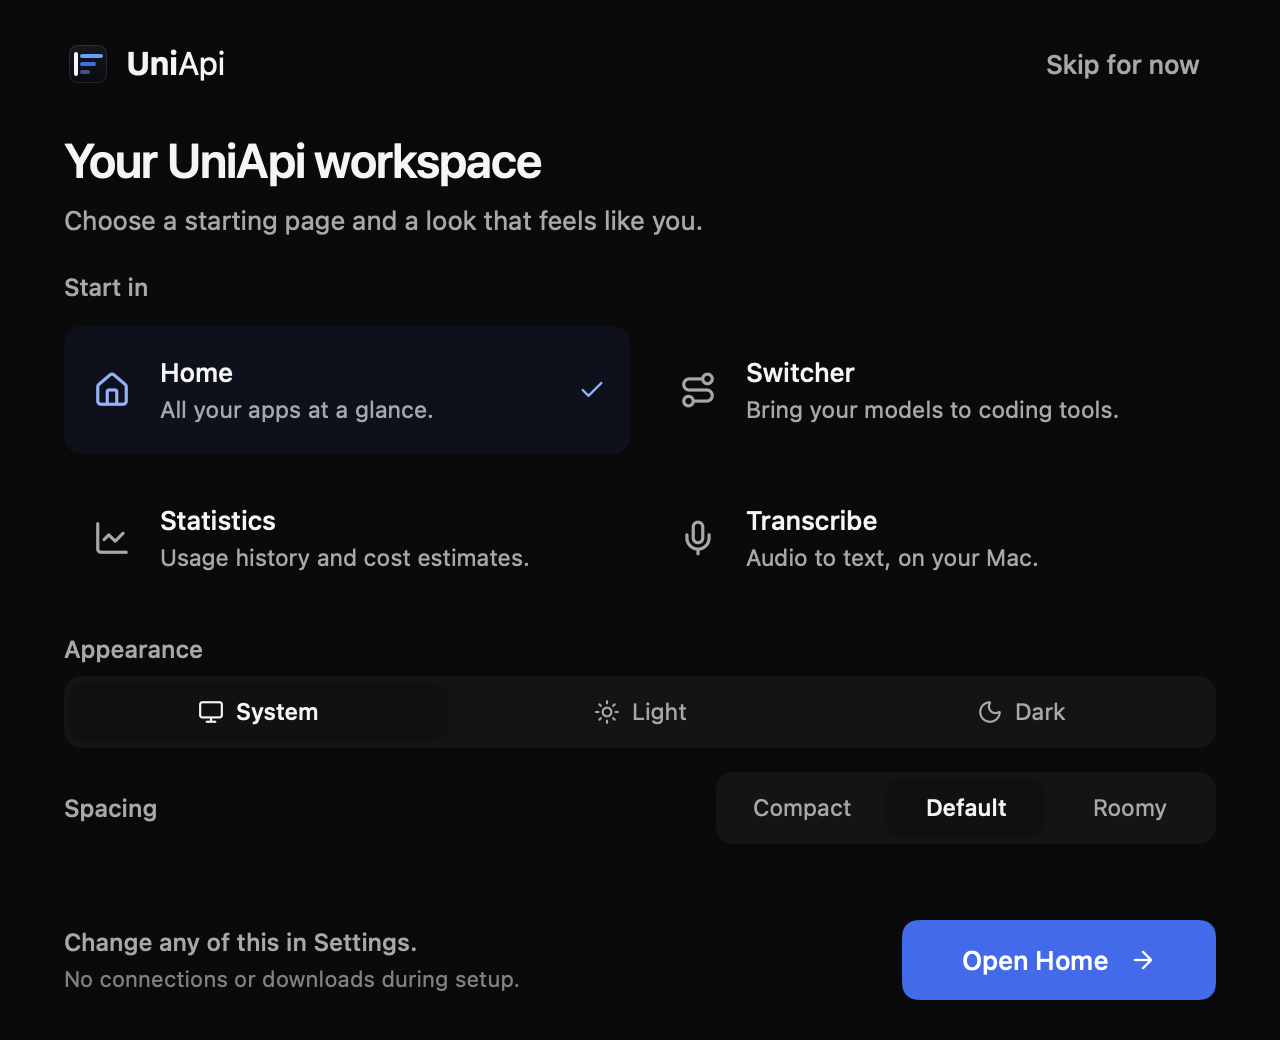
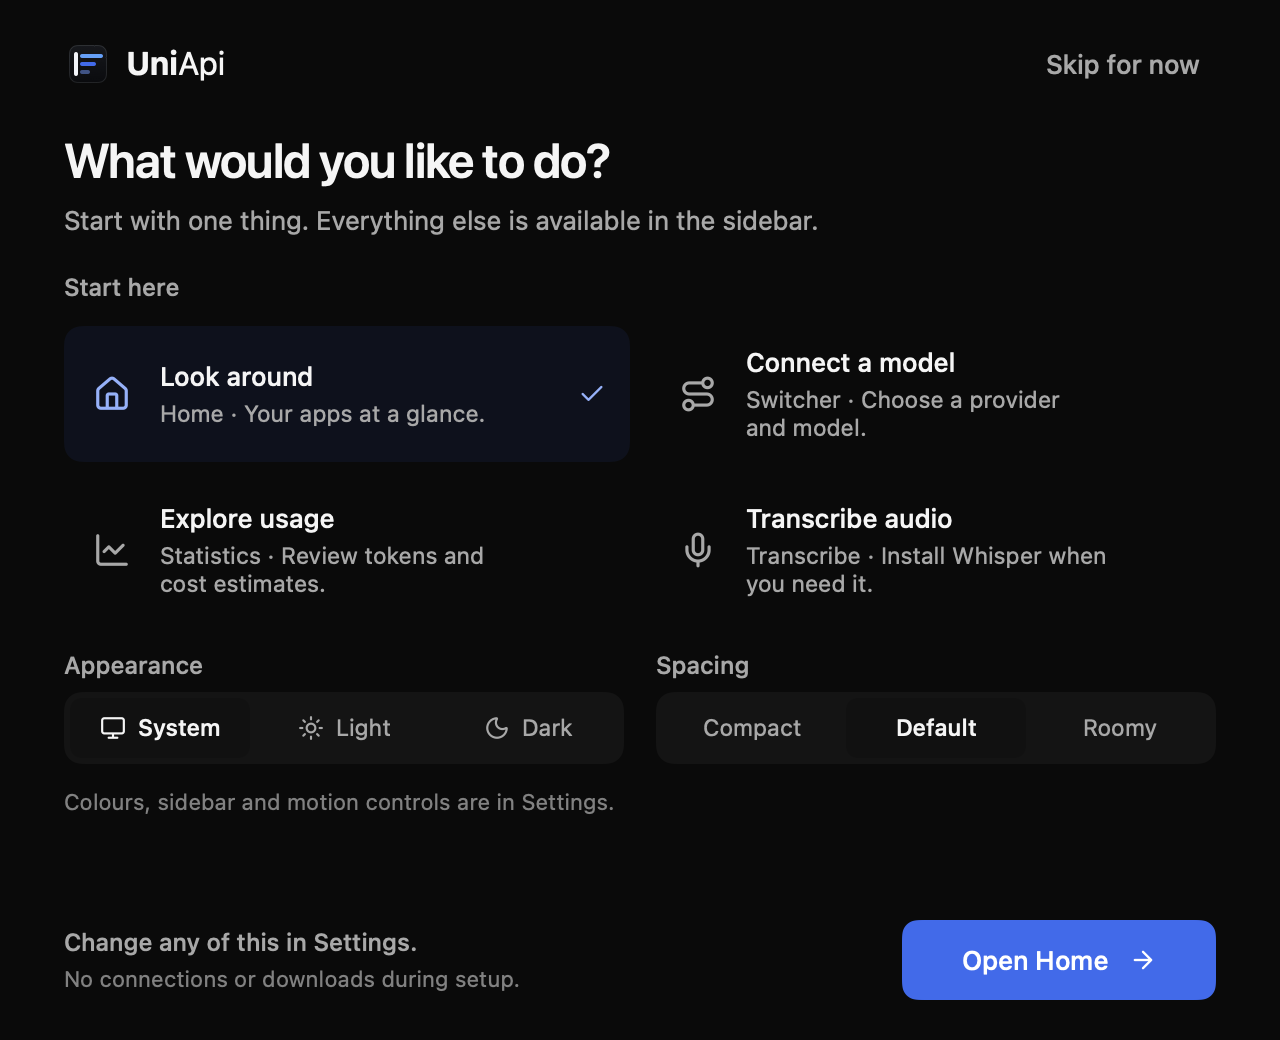
Make onboarding task-first and align customization (#26)
Explain the action before its destination, simplify the inert preview and keep Appearance and Spacing aligned in compact windows. Density changes no longer move task targets. Preserve routing, completion and preference semantics, and refresh exact-source screenshots with bounded validation notes.

diff --git a/native/swift/Sources/UniApi/NativeOnboardingView.swift b/native/swift/Sources/UniApi/NativeOnboardingView.swift
@@ -26,11 +26,11 @@ struct NativeOnboardingView: View {
                 ScrollView {
                     VStack(alignment: .leading, spacing: compact ? 18 : 28) {
                         VStack(alignment: .leading, spacing: 8) {
-                            Text("Your UniApi workspace")
+                            Text("What would you like to do?")
                                 .font(Theme.ui(compact ? 24 : 26, weight: .semibold)).tracking(-0.6)
                                 .accessibilityAddTraits(.isHeader)
                                 .accessibilityFocused($focusedHeading)
-                            Text("Choose a starting page and a look that feels like you.")
+                            Text("Start with one thing. Everything else is available in the sidebar.")
                                 .font(Theme.ui(13)).foregroundStyle(Theme.dim)
                                 .fixedSize(horizontal: false, vertical: true)
                         }
@@ -81,7 +81,7 @@ struct NativeOnboardingView: View {
 
     private func destinations(grid: Bool) -> some View {
         VStack(alignment: .leading, spacing: 12) {
-            Text("Start in").font(Theme.ui(12, weight: .medium)).foregroundStyle(Theme.dim)
+            Text("Start here").font(Theme.ui(12, weight: .medium)).foregroundStyle(Theme.dim)
             if grid {
                 LazyVGrid(columns: [GridItem(.flexible(), spacing: 10), GridItem(.flexible(), spacing: 10)], spacing: 10) {
                     ForEach(OnboardingDestination.allCases) { destinationChoice($0, compact: true) }
@@ -101,19 +101,20 @@ struct NativeOnboardingView: View {
                 NativeIcon(value.icon, size: 19).foregroundStyle(selected ? Theme.link : Theme.dim)
                     .frame(width: 24, height: 24).accessibilityHidden(true)
                 VStack(alignment: .leading, spacing: 4) {
-                    Text(value.title).font(Theme.ui(13, weight: .medium))
-                    Text(value.detail).font(Theme.ui(11.5)).foregroundStyle(Theme.dim)
+                    Text(value.actionTitle).font(Theme.ui(13, weight: .medium))
+                    Text(value.title + " · " + value.detail).font(Theme.ui(11.5)).foregroundStyle(Theme.dim)
                         .fixedSize(horizontal: false, vertical: true)
                 }
                 .frame(maxWidth: .infinity, alignment: .leading)
                 NativeIcon("check", size: 14).foregroundStyle(Theme.link)
                     .opacity(selected ? 1 : 0).accessibilityHidden(true)
             }
-            .padding(.horizontal, 12).padding(.vertical, density == "compact" ? 8 : density == "spacious" ? 14 : compact ? 10 : 12)
-            .frame(maxWidth: .infinity, minHeight: density == "compact" ? 58 : density == "spacious" ? 76 : 64, alignment: .leading)
+            .padding(.horizontal, 12).padding(.vertical, compact ? 10 : 12)
+            .frame(maxWidth: .infinity, minHeight: compact ? 68 : 72, alignment: .leading)
         }
         .buttonStyle(OnboardingChoiceStyle(selected: selected))
-        .accessibilityLabel(value.title + ". " + value.detail)
+        .accessibilityLabel(value.actionTitle + ". Select " + value.title + " as starting page. " + value.detail)
+        .accessibilityHint("Use Open " + value.title + " to continue.")
         .accessibilityAddTraits(selected ? [.isSelected] : [])
     }
 
@@ -121,26 +122,44 @@ struct NativeOnboardingView: View {
         VStack(alignment: .leading, spacing: 12) {
             if showPreview {
                 VStack(alignment: .leading, spacing: 12) {
-                    Text("Layout preview").font(Theme.ui(12, weight: .medium)).foregroundStyle(Theme.dim)
+                    Text("Appearance preview").font(Theme.ui(12, weight: .medium)).foregroundStyle(Theme.dim)
                     OnboardingWorkspacePreview(destination: destination)
-                        .frame(height: 240)
+                        .frame(height: 180)
                         .accessibilityHidden(true).allowsHitTesting(false)
                 }
             }
-            VStack(alignment: .leading, spacing: 6) {
-                Text("Appearance").font(Theme.ui(12, weight: .medium)).foregroundStyle(Theme.dim)
-                choiceStrip(options: [("auto", "System", "monitor"), ("light", "Light", "sun"), ("dark", "Dark", "moon")], selection: appearance) { appearance = $0 }
-                    .accessibilityLabel("Appearance")
+            if showPreview {
+                appearanceControl
+                spacingControl
+            } else {
+                HStack(alignment: .top, spacing: 16) {
+                    appearanceControl
+                    spacingControl
+                }
             }
-            HStack(spacing: 12) {
-                Text("Spacing").font(Theme.ui(12, weight: .medium)).foregroundStyle(Theme.dim)
-                Spacer(minLength: 0)
-                choiceStrip(options: [("compact", "Compact", nil), ("standard", "Default", nil), ("spacious", "Roomy", nil)], selection: density) { density = $0 }
-                    .frame(maxWidth: 250)
-                    .accessibilityLabel("Page spacing")
-            }
+            Text("Colours, sidebar and motion controls are in Settings.")
+                .font(Theme.ui(11)).foregroundStyle(Theme.muted)
+                .fixedSize(horizontal: false, vertical: true)
         }
         .frame(maxWidth: .infinity, alignment: .leading)
+    }
+
+    private var appearanceControl: some View {
+        VStack(alignment: .leading, spacing: 6) {
+            Text("Appearance").font(Theme.ui(12, weight: .medium)).foregroundStyle(Theme.dim)
+            choiceStrip(options: [("auto", "System", "monitor"), ("light", "Light", "sun"), ("dark", "Dark", "moon")], selection: appearance) { appearance = $0 }
+                .accessibilityLabel("Appearance")
+        }
+        .frame(maxWidth: .infinity)
+    }
+
+    private var spacingControl: some View {
+        VStack(alignment: .leading, spacing: 6) {
+            Text("Spacing").font(Theme.ui(12, weight: .medium)).foregroundStyle(Theme.dim)
+            choiceStrip(options: [("compact", "Compact", nil), ("standard", "Default", nil), ("spacious", "Roomy", nil)], selection: density) { density = $0 }
+                .accessibilityLabel("Page spacing")
+        }
+        .frame(maxWidth: .infinity)
     }
 
     private func choiceStrip(options: [(String, String, String?)], selection: String, change: @escaping (String) -> Void) -> some View {
@@ -193,15 +212,31 @@ private enum OnboardingDestination: String, CaseIterable, Identifiable {
     var title: String {
         switch self { case .home: return "Home"; case .switcher: return "Switcher"; case .stats: return "Statistics"; case .transcribe: return "Transcribe" }
     }
+    var actionTitle: String {
+        switch self {
+        case .home: return "Look around"
+        case .switcher: return "Connect a model"
+        case .stats: return "Explore usage"
+        case .transcribe: return "Transcribe audio"
+        }
+    }
+    var previewRows: [String] {
+        switch self {
+        case .home: return ["Recent work", "Usage overview"]
+        case .switcher: return ["Choose a coding tool", "Add a provider and model"]
+        case .stats: return ["Tokens and cost estimates", "Models and usage history"]
+        case .transcribe: return ["Optional local model", "Your audio, on your Mac"]
+        }
+    }
     var icon: String {
         switch self { case .home: return "house"; case .switcher: return "route"; case .stats: return "chart-line"; case .transcribe: return "mic" }
     }
     var detail: String {
         switch self {
-        case .home: return "All your apps at a glance."
-        case .switcher: return "Bring your models to coding tools."
-        case .stats: return "Usage history and cost estimates."
-        case .transcribe: return "Audio to text, on your Mac."
+        case .home: return "Your apps at a glance."
+        case .switcher: return "Choose a provider and model."
+        case .stats: return "Review tokens and cost estimates."
+        case .transcribe: return "Install Whisper when you need it."
         }
     }
 }
@@ -212,41 +247,40 @@ private struct OnboardingWorkspacePreview: View {
     let destination: OnboardingDestination
     @Environment(\.nativeInterfaceDensity) private var density
     @Environment(\.nativeReducedMotion) private var reducedMotion
-    private var gap: CGFloat { density == .compact ? 8 : density == .spacious ? 18 : 12 }
+    private var gap: CGFloat { density == .compact ? 6 : density == .spacious ? 12 : 9 }
 
     var body: some View {
         HStack(spacing: 0) {
             VStack(spacing: gap / 2) {
-                UniApiMark(size: 23).padding(.bottom, 8)
+                UniApiMark(size: 23).padding(.bottom, 4)
                 ForEach(OnboardingDestination.allCases) { value in
                     NativeIcon(value.icon, size: 15)
                         .foregroundStyle(destination == value ? Theme.link : Theme.muted)
-                        .frame(width: 32, height: 28)
+                        .frame(width: 32, height: 24)
                         .background(RoundedRectangle(cornerRadius: 6).fill(destination == value ? Theme.sidebarAccent : .clear))
                 }
                 Spacer(minLength: 0)
             }
-            .padding(.top, 18).frame(width: 54)
+            .padding(.top, 12).frame(width: 54)
             .background(Theme.sidebarBG)
             Rectangle().fill(Theme.border).frame(width: 1)
             VStack(alignment: .leading, spacing: gap) {
                 Text(destination.title).font(Theme.ui(14, weight: .semibold))
                 Text(destination.detail).font(Theme.ui(10.5)).foregroundStyle(Theme.dim)
                     .fixedSize(horizontal: false, vertical: true)
-                ForEach(["Your providers", "Your usage", "Local tools"], id: \.self) { title in
+                ForEach(destination.previewRows, id: \.self) { title in
                     HStack(spacing: 8) {
                         RoundedRectangle(cornerRadius: 2).fill(Theme.accent.opacity(0.65)).frame(width: 3, height: 14)
                         Text(title).font(Theme.ui(10.5)).foregroundStyle(Theme.dim)
                         Spacer(minLength: 0)
-                        NativeIcon("chevron-right", size: 10).foregroundStyle(Theme.muted)
                     }
-                    .padding(.vertical, density == .compact ? 5 : density == .spacious ? 9 : 7)
+                    .padding(.vertical, density == .compact ? 4 : density == .spacious ? 8 : 6)
                     .padding(.horizontal, 10)
                     .background(RoundedRectangle(cornerRadius: 6).fill(Theme.subtle))
                 }
                 Spacer(minLength: 0)
             }
-            .padding(18).frame(maxWidth: .infinity, maxHeight: .infinity, alignment: .topLeading)
+            .padding(16).frame(maxWidth: .infinity, maxHeight: .infinity, alignment: .topLeading)
         }
         .background(Theme.surface)
         .clipShape(RoundedRectangle(cornerRadius: 12))
@@ -273,6 +307,7 @@ private struct OnboardingChoiceBody: View {
             .contentShape(RoundedRectangle(cornerRadius: 9))
             .scaleEffect(configuration.isPressed && !reducedMotion ? 0.99 : 1)
             .animation(reducedMotion ? nil : NativeMotion.hover, value: hovering)
+            .animation(reducedMotion ? nil : NativeMotion.hover, value: selected)
             .animation(reducedMotion ? nil : NativeMotion.press, value: configuration.isPressed)
             .onHover { hovering = $0 }
             .onDisappear { hovering = false }
@@ -295,6 +330,7 @@ private struct OnboardingSegmentBody: View {
             .background(RoundedRectangle(cornerRadius: 6).fill(selected ? Theme.surface : configuration.isPressed || hovering ? Theme.subtle2 : .clear))
             .contentShape(RoundedRectangle(cornerRadius: 6))
             .animation(reducedMotion ? nil : NativeMotion.hover, value: hovering)
+            .animation(reducedMotion ? nil : NativeMotion.hover, value: selected)
             .onHover { hovering = $0 }
             .onDisappear { hovering = false }
             .pointingHand()

diff --git a/docs/DESIGN.md b/docs/DESIGN.md
@@ -41,8 +41,10 @@ add frame timers or repeat entrance animations on background refreshes.
 
 ## Welcome guide
 
-Setup is one screen: choose Home, Switcher, Statistics or Transcribe, adjust
-appearance and spacing if desired, then open the selected page directly. Skip
+Setup is one screen: choose a task (Look around, Connect a model, Explore usage
+or Transcribe audio), with its Home, Switcher, Statistics or Transcribe destination
+shown below. Adjust appearance and spacing if desired, then open the selected
+page directly. Skip
 for now stays in the header. Do not insert an appearance wizard between the
 user's task choice and its destination. Motion follows the existing preference
 and macOS Reduce Motion; further customization remains in Settings.
@@ -53,13 +55,16 @@ selection. Avoid nested icon wells, radio circles, outlined groups and repeated
 selection decoration. The primary action names its destination and remains
 40 points high in a fixed footer.
 
-At sufficiently wide and tall sizes, a labelled, inert layout illustration sits
-beside the choices. It uses the real theme tokens and density values and changes
+At sufficiently wide and tall sizes, a small labelled, inert appearance
+illustration sits beside the choices. It uses the real theme tokens and density values and changes
 with the choices. It is not a live page, does not contain user data and must not
 create an app session, connect a provider or download a model. Smaller viewports
-use a two-column task grid and omit the illustration; the actual choice spacing
-still demonstrates density. Content can scroll while the primary action stays
-available. Review the complete view at the exact viewport, disabling AppKit's
+use a two-column task grid and omit the illustration. Appearance and Spacing
+then use equal-width columns with matching label baselines. Density changes
+only the preview and destination pages; keep the task hit targets stable so
+customization does not move the selection under the pointer. Do not put
+clickable-looking chevrons in the inert illustration. Content can scroll while
+the primary action stays available. Review the complete view at the exact viewport, disabling AppKit's
 automatic host sizing so it cannot conceal clipping by enlarging the window.
 
 The heading has accessibility heading semantics and requests focus on entry.

diff --git a/docs/VALIDATION.md b/docs/VALIDATION.md
@@ -639,3 +639,29 @@ The optional model is absent until explicitly installed. Model files are validat
 - Native page illustrations are distinct from compositor captures, full-shell interaction, hardware acceptance and a fresh installed-user test.
 
 The final UI-only icon, notification-default and slider changes were rebuilt into the package and recaptured separately. Core and Presentation sources are unchanged from the 1,176-test run.
+
+
+## Task-first welcome refinement
+
+The welcome screen now names tasks before destination names, uses an inert,
+smaller appearance preview without clickable-looking chevrons, and aligns the
+Appearance and Spacing controls. Compact windows keep both customizers visible
+side by side. Density changes the preview instead of moving the task hit targets.
+
+The optimized native gate passed 1,303 tests with zero failures and all UI/three
+product links. Later changes were confined to the accessibility label/hint and
+preview spacing; Core and test inputs stayed byte-identical. Those final UI
+sources compiled separately against the retained Core/Presentation objects with
+macOS 14/SDK 26.5 headers. Twenty-four quiet exact-view captures cover Light/Dark,
+four finite viewport sizes and all three densities. The capture host cannot
+silently enlarge the declared viewport. Public screenshots and their manifest
+bind the final view, harness and composition hashes.
+
+A separate preference-isolated native input check selected Explore usage,
+changed Light/Roomy, used Return to produce the Statistics callback, reopened
+with the preferences retained, then used Escape to skip and closed its own window.
+That input check preceded the final preview-fit adjustment; final bitmap evidence
+covers that geometry change. It constructs no app runtime or services. Its input
+phase had no OS sandbox; this is not a global write audit, a fresh-user test,
+VoiceOver acceptance, or a compositor/frame-rate measurement. The rendering
+phase was separately sandboxed and offscreen.

diff --git a/docs/SETTINGS.md b/docs/SETTINGS.md
@@ -4,7 +4,7 @@ UniApi stores navigation preferences with macOS application preferences. They ar
 
 ## Guided setup
 
-A fresh, unconfigured writable installation offers a single-screen welcome: choose a starting page, appearance and spacing, then open that page directly. A labelled layout illustration is shown when the viewport has room. Existing preferences or provider configuration keep it out of the way for existing users. `Settings > Show setup` reopens the same guide without resetting the workspace.
+A fresh, unconfigured writable installation offers a single-screen welcome: choose a task, appearance and spacing, then open its page directly. Task labels explain what to do; the destination name stays visible below them. A small, non-interactive appearance illustration is shown when the viewport has room. The two customization controls share their label and width alignment, including side-by-side placement in shorter windows. Existing preferences or provider configuration keep it out of the way for existing users. `Settings > Show setup` reopens the same guide without resetting the workspace.
 
 If the app exits before completing or skipping setup, the guide opens again on the next launch with its appearance choices retained. A separate started marker distinguishes those choices and the new window frame from an older installation's settings.
 

diff --git a/README.md b/README.md
@@ -53,8 +53,9 @@ For source builds and separate runtime data, see [local development](docs/LOCAL-
 ## Your first five minutes
 
 New, unconfigured installations offer a skippable single-screen welcome.
-Choose a starting page, adjust appearance and spacing, and open that page
-directly. Larger windows show a labelled layout preview. Opening welcome itself never signs you
+Choose a task—connect a model, explore usage, transcribe audio or look
+around—adjust appearance and spacing, and open that page directly. Larger
+windows show a small, non-interactive appearance preview. Opening welcome itself never signs you
 in, downloads a model, changes hardware controls or changes routing. Existing
 installations are not forced through setup; use **Settings > Show setup** to
 replay it. If setup is interrupted, its appearance choices are retained and
